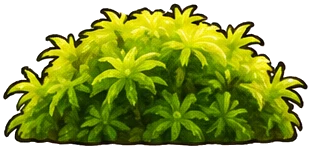
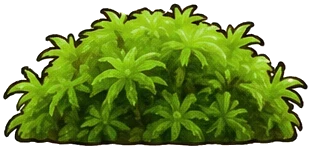
Round 9 fixes: neutral softer key with more fill, clearer glass base, moss cushions toned from lime toward deep green

diff --git a/src/scene/Daylight.tsx b/src/scene/Daylight.tsx
@@ -18,7 +18,7 @@ export function Daylight({ world, dramatic = false, room = false }: { world: Wor
   const key = useRef<DirectionalLight>(null)
   const sky = environmentAt(lightingWorld(world))
   // Warm sun against cool sky fill, the contrast that makes big-budget daylight read (2026-11-07).
-  const sun = new Color('#ffe8c2').lerp(new Color('#fff1d6'), world.light)
+  const sun = new Color('#fff0dc').lerp(new Color('#fbf6ec'), world.light)
   const night = sky.phase === 'night'
   const tint = !sky.cycling ? sun : new Color(night ? '#a5bbdf' : '#ff9d58').lerp(sun, MathUtils.smoothstep(sky.solar, 0.1, 0.6))
   // In the room the key light comes in through the window, so its source is in view.
@@ -28,7 +28,7 @@ export function Daylight({ world, dramatic = false, room = false }: { world: Wor
     : new Vector3(4, 7, -4)
   const brightness = sky.cycling ? sky.solar : 1
   // In the room the fill drops further so the window behind the jar is the light you notice (concept image 12).
-  const fill = room ? 0.45 : dramatic ? 0.3 : 1, keyBoost = room ? 1.6 : dramatic ? 1.35 : 1
+  const fill = room ? 0.6 : dramatic ? 0.3 : 1, keyBoost = room ? 1.15 : dramatic ? 1.35 : 1
   useFrame((_, delta) => {
     const blend = 1 - Math.exp(-delta * 5)
     if (ambient.current) ambient.current.intensity = MathUtils.lerp(ambient.current.intensity, (sky.cycling ? 0.55 + brightness * 0.7 : 1.25) * fill, blend)

diff --git a/src/scene/JarSetting.tsx b/src/scene/JarSetting.tsx
@@ -169,7 +169,7 @@ function Glass({ bottom = gravelBottom, sealed = false, mist = 0 }: { bottom?: n
     {/* A thick glass base the jar stands on (image 12): a green-tinted slab whose edge catches the light. */}
     <mesh position={[0, bottom - 0.2, 0]} raycast={noRaycast} renderOrder={2}>
       <cylinderGeometry args={[wall - 0.04, wall - 0.12, 0.3, 96]} />
-      <meshPhysicalMaterial color="#cfe0d6" transparent opacity={0.38} roughness={0.08} metalness={0} clearcoat={1} clearcoatRoughness={0.05} depthWrite={false} />
+      <meshPhysicalMaterial color="#cfe0d6" transparent opacity={0.16} roughness={0.08} metalness={0} clearcoat={1} clearcoatRoughness={0.05} depthWrite={false} />
     </mesh>
     {/* Contact shadow where the jar stands on the sill, so it sits rather than floats. */}
     <mesh position={[0, bottom - 0.348, 0.15]} rotation={[-Math.PI / 2, 0, 0]} raycast={noRaycast} material={contactShadow}>
